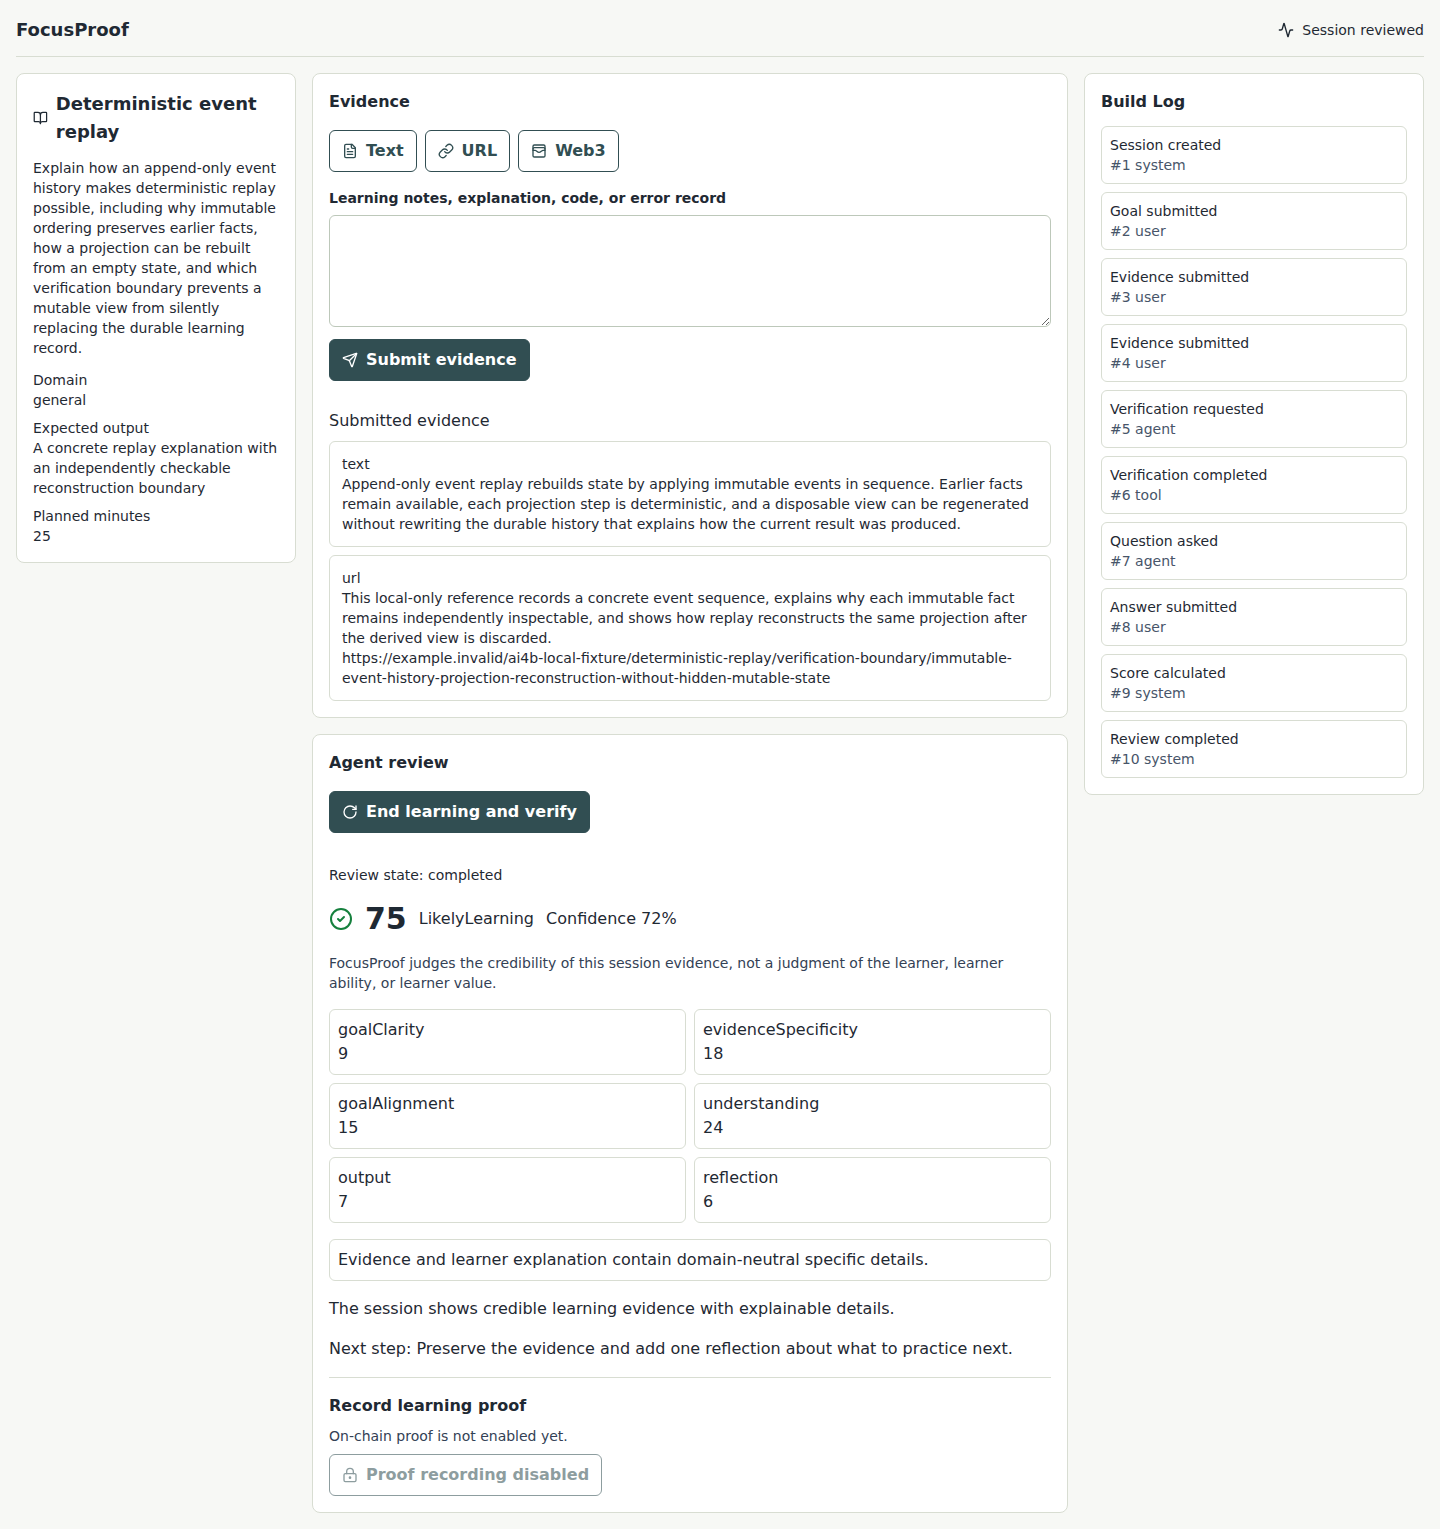
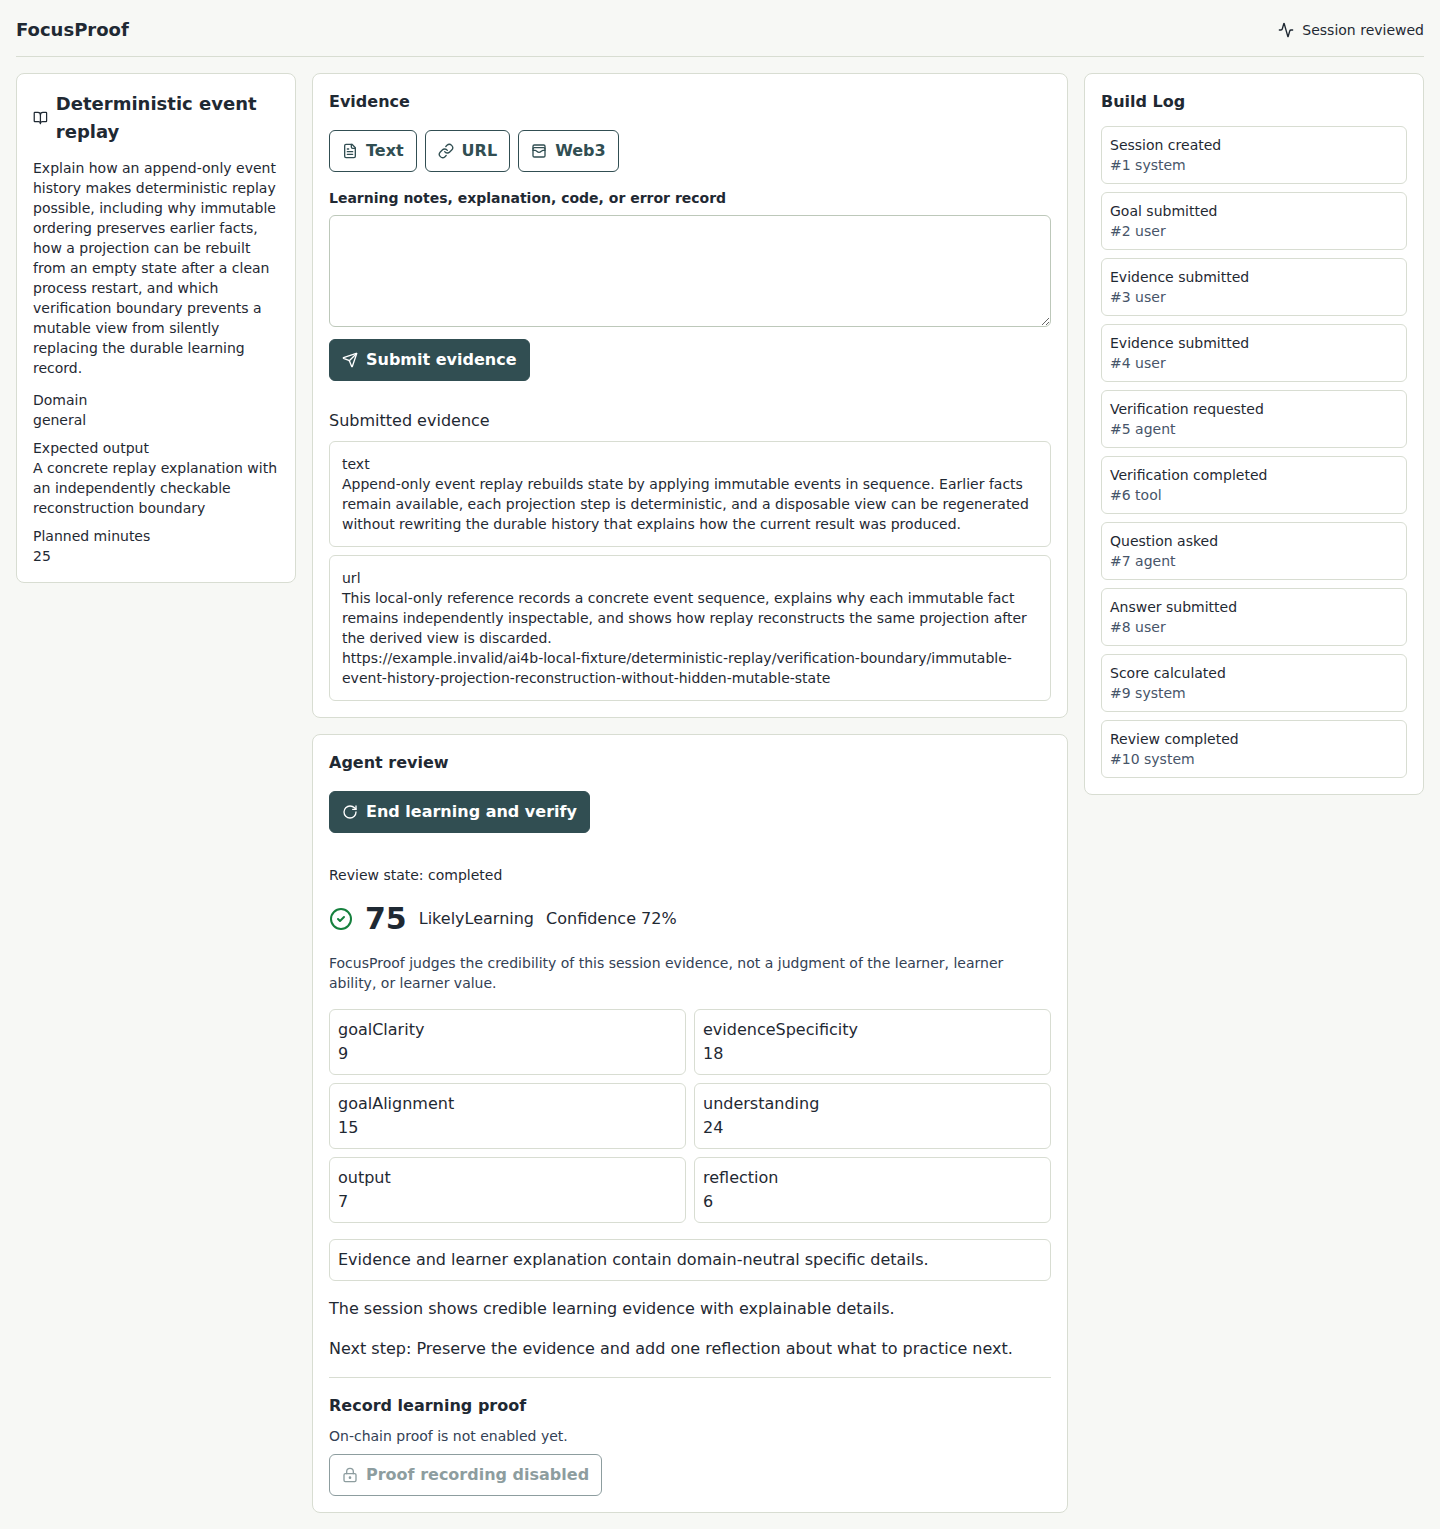
fix: capture AI4B visuals from production Next

Changed region(s): [[0.0, 0.1537, 0.1875, 0.3689]]

diff --git a/frontend/playwright.visual.config.ts b/frontend/playwright.visual.config.ts
@@ -3,13 +3,14 @@ import path from "node:path";
 
 const frontendDir = __dirname;
 const repositoryDir = path.resolve(frontendDir, "..");
-const runtimeDir = path.join(frontendDir, "test-results/ai4b-runtime");
+const runtimeDir = path.join(frontendDir, "test-results/ai4b-visual-runtime");
 const databasePath = path.join(runtimeDir, "focusproof.sqlite3");
 const pythonPath = path.join(repositoryDir, ".venv/bin/python3.12");
 
 export default defineConfig({
   testDir: "./e2e",
-  outputDir: "test-results/artifacts",
+  testMatch: "ai4b-real-flow.spec.ts",
+  outputDir: "test-results/ai4b-visual-artifacts",
   timeout: 30000,
   workers: 1,
   expect: { timeout: 5000 },
@@ -35,7 +36,8 @@ export default defineConfig({
       timeout: 120000
     },
     {
-      command: "npm run dev -- --hostname 127.0.0.1 --port 3000",
+      command:
+        "npm run build && ./node_modules/.bin/next start --hostname 127.0.0.1 --port 3000",
       cwd: frontendDir,
       env: {
         FOCUSPROOF_API_BASE_URL: "http://127.0.0.1:8000"
@@ -46,9 +48,25 @@ export default defineConfig({
     }
   ],
   projects: [
-    { name: "chromium", use: { ...devices["Desktop Chrome"], viewport: { width: 1440, height: 900 } } },
-    { name: "desktop-1280", use: { ...devices["Desktop Chrome"], viewport: { width: 1280, height: 720 } } },
-    { name: "mobile", use: { ...devices["Pixel 5"], viewport: { width: 390, height: 844 } } },
-    { name: "mobile-360", use: { ...devices["Pixel 5"], viewport: { width: 360, height: 800 } } }
+    {
+      name: "chromium",
+      metadata: { visualCapture: true },
+      use: { ...devices["Desktop Chrome"], viewport: { width: 1440, height: 900 } }
+    },
+    {
+      name: "desktop-1280",
+      metadata: { visualCapture: true },
+      use: { ...devices["Desktop Chrome"], viewport: { width: 1280, height: 720 } }
+    },
+    {
+      name: "mobile",
+      metadata: { visualCapture: true },
+      use: { ...devices["Pixel 5"], viewport: { width: 390, height: 844 } }
+    },
+    {
+      name: "mobile-360",
+      metadata: { visualCapture: true },
+      use: { ...devices["Pixel 5"], viewport: { width: 360, height: 800 } }
+    }
   ]
 });

diff --git a/frontend/e2e/ai4b-real-flow.spec.ts b/frontend/e2e/ai4b-real-flow.spec.ts
@@ -3,7 +3,7 @@ import path from "node:path";
 
 const assetsDir = path.resolve(__dirname, "../../docs/research/assets/ai4b");
 const longGoal =
-  "Explain how an append-only event history makes deterministic replay possible, including why immutable ordering preserves earlier facts, how a projection can be rebuilt from an empty state, and which verification boundary prevents a mutable view from silently replacing the durable learning record.";
+  "Explain how an append-only event history makes deterministic replay possible, including why immutable ordering preserves earlier facts, how a projection can be rebuilt from an empty state after a clean process restart, and which verification boundary prevents a mutable view from silently replacing the durable learning record.";
 const evidenceText =
   "Append-only event replay rebuilds state by applying immutable events in sequence. Earlier facts remain available, each projection step is deterministic, and a disposable view can be regenerated without rewriting the durable history that explains how the current result was produced.";
 const sourceUrl =
@@ -131,6 +131,7 @@ async function expectGeometry(page: Page, focalElements: Locator[]): Promise<voi
 }
 
 async function capture(page: Page, testInfo: TestInfo, project: string, fileName: string) {
+  if (testInfo.project.metadata.visualCapture !== true) return;
   if (testInfo.project.name !== project) return;
   await settleLayout(page);
   await expect(page.locator("nextjs-portal")).toHaveCount(0);

diff --git a/docs/research/AI4B_VISUAL_ACCEPTANCE.md b/docs/research/AI4B_VISUAL_ACCEPTANCE.md
@@ -15,6 +15,14 @@ capture helper asserts that no `nextjs-portal` development element exists and
 takes the full-page PNG from the unmodified production DOM. No screenshot or
 DOM post-processing is applied.
 
+The production capture is isolated in
+`frontend/playwright.visual.config.ts` and runs with:
+
+`npx playwright test --config playwright.visual.config.ts`
+
+The default Task 6 Playwright configuration remains on its existing
+development-server path and does not write the AI4B visual evidence.
+
 Successful Session creation, evidence submission, review, answer submission,
 completion, Build Log persistence, and refresh recovery are not intercepted.
 The 360 px failure state creates and loads a real Session, then uses Playwright
@@ -32,15 +40,15 @@ Test node:
 | --- | --- | --- | --- | --- | --- |
 | [1440x900-completed.png](assets/ai4b/1440x900-completed.png) | 1440×900 | 1440×1529 full page | completed | Long replay goal, text evidence, local-only URL evidence, follow-up answer, persisted review | Accepted |
 | [1280x720-completed.png](assets/ai4b/1280x720-completed.png) | 1280×720 | 1280×1641 full page | completed | Same real completed flow at the narrower desktop grid | Accepted |
-| [390x844-awaiting-user.png](assets/ai4b/390x844-awaiting-user.png) | 390×844 | 390×2386 full page | awaiting_user | Real review question after text and URL evidence | Accepted |
-| [360x800-failed-input-preserved.png](assets/ai4b/360x800-failed-input-preserved.png) | 360×800 | 360×1347 full page | failed Evidence POST, Session remains running | Real Session plus one deterministic retryable 503; entered replay explanation remains visible | Accepted |
+| [390x844-awaiting-user.png](assets/ai4b/390x844-awaiting-user.png) | 390×844 | 390×2406 full page | awaiting_user | Real review question after text and URL evidence | Accepted |
+| [360x800-failed-input-preserved.png](assets/ai4b/360x800-failed-input-preserved.png) | 360×800 | 360×1367 full page | failed Evidence POST, Session remains running | Real Session plus one deterministic retryable 503; entered replay explanation remains visible | Accepted |
 
 SHA-256:
 
[8 lines of base64/hex data omitted]
 
 ## VIS-01 — Horizontal overflow
 
@@ -87,6 +95,7 @@ Both desktop screenshots clearly show:
 
 No overlap, clipped control, horizontal scrollbar, secret, provider key, raw
 environment value, or misleading proof-success state was observed.
+No Next.js development indicator or other framework chrome is present.
 
 Conclusion: accepted.
 
@@ -95,7 +104,8 @@ Conclusion: accepted.
 At 390×844 the three-column desktop layout reflows into one readable column.
 The `Awaiting user` state, question, answer field, and submit button are
 explicit and reachable. Long goal, submitted evidence, URL, and generated
-question ID wrap without widening the page.
+question ID wrap without widening the page. The Evidence input, tabs, submit
+button, and status message are unobstructed.
 
 Conclusion: accepted.
 
@@ -104,6 +114,8 @@ Conclusion: accepted.
 At 360×800 the retryable Runtime failure message is visible next to the intact
 Evidence text. The Session remains running, no success fact is displayed, and
 the Build Log contains only facts persisted before the rejected submission.
+The textarea content, submit button, failure message, and review state are
+unobstructed.
 
 All four captures use the general deterministic replay topic. Web3 remains an
 optional evidence tab; wallet metadata, transactions, contracts, and on-chain
